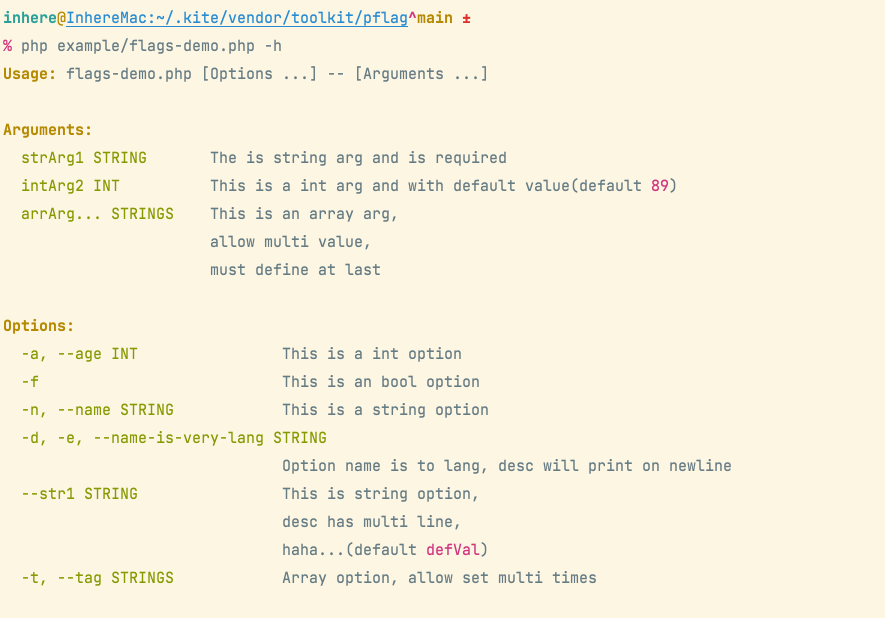
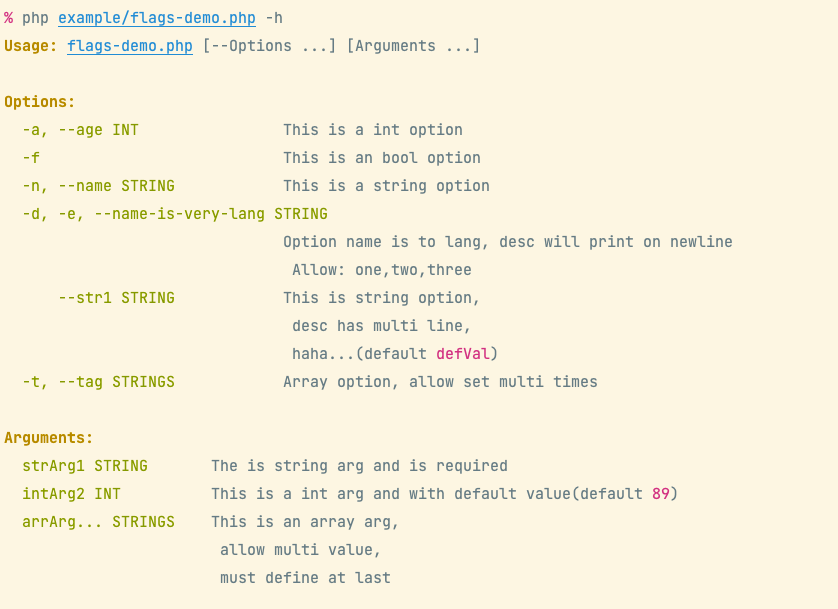
chore: update some preview images and update readme docs

diff --git a/example/flags-demo.php b/example/flags-demo.php
@@ -19,8 +19,8 @@ use Toolkit\PFlag\Validator\EnumValidator;
 require dirname(__DIR__) . '/test/bootstrap.php';
 
 // run demo:
-// php example/flag-demo.php -h
-// php example/sflags-demo.php --name inhere --age 99 --tag go -t php -t java -f arg0 arr0 arr1
+// php example/flags-demo.php -h
+// php example/flags-demo.php --name inhere --age 99 --tag go -t php -t java -f arg0 arr0 arr1
 $flags = $_SERVER['argv'];
 // NOTICE: must shift first element.
 $scriptFile = array_shift($flags);

diff --git a/example/sflags-demo.php b/example/sflags-demo.php
@@ -15,6 +15,7 @@ use Toolkit\PFlag\SFlags;
 require dirname(__DIR__) . '/test/bootstrap.php';
 
 // run demo:
+// php example/sflags-demo.php -h
 // php example/sflags-demo.php --name inhere --age 99 --tag go -t php -t java -f arg0 arr0 arr1
 $flags = $_SERVER['argv'];
 // NOTICE: must shift first element.

diff --git a/example/cliapp.php b/example/cliapp.php
@@ -16,7 +16,7 @@ require dirname(__DIR__) . '/test/bootstrap.php';
 
 // run demo:
 // php example/cliapp.php
-
+// php example/cliapp.php test2 -h
 $cli = CliApp::newWith(static function (CliApp $app): void {
     $app->setName('myApp');
     $app->setDesc('my cli application. v1.0.1');

diff --git a/example/clicmd.php b/example/clicmd.php
@@ -14,7 +14,7 @@ use Toolkit\PFlag\FlagsParser;
 require dirname(__DIR__) . '/test/bootstrap.php';
 
 // run demo:
-// php example/clicmd.php
+// php example/clicmd.php -h
 // php example/clicmd.php --name inhere value1
 // php example/clicmd.php --age 23 --name inhere value1
 

diff --git a/README.md b/README.md
@@ -37,6 +37,11 @@ Generic PHP command line flags parse library
 - Support binding named arguemnt
 - Support define array argument
 
+### Quick build command
+
+- Use `Toolkit\PFlag\CliCmd` to quickly build a simple command application
+- Use `Toolkit\PFlag\CliApp` to quickly build a command application that supports subcommands
+
 ## Install
 
 - Require PHP 8.0+

diff --git a/README.zh-CN.md b/README.zh-CN.md
@@ -38,6 +38,11 @@
 - 支持绑定命名参数
 - 支持定义数组参数
 
+### 快速构建命令
+
+- 使用 `Toolkit\PFlag\CliCmd` 可以快速的构建一个简单的命令应用
+- 使用 `Toolkit\PFlag\CliApp` 可以快速的构建一个支持子命令的命令应用
+
 ## 安装
 
 - Require PHP 8.0+
